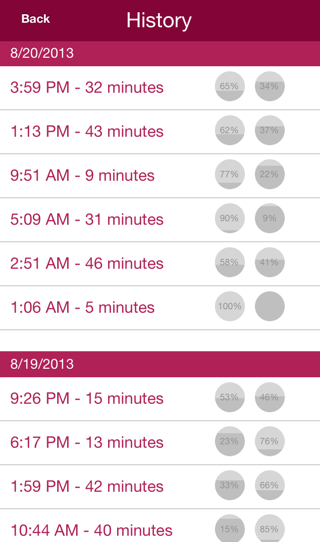
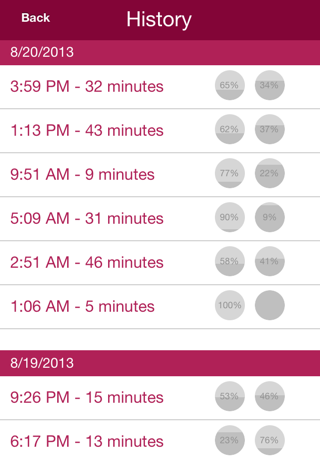
Paid/Free version finished

diff --git a/src/FeedMeMom.UI/MainController.cs b/src/FeedMeMom.UI/MainController.cs
@@ -283,28 +283,53 @@ namespace FeedMeMom
 
 		private void CreateSideMenu()
 		{
-			var repo = ServiceLocator.Get<Repository> ();
-
 			_sideMenu = new SideMenu();
 			_sideMenuHub = SideMenuHub.CreateAndHookup(View, _sideMenu.View);
 
 
-			_sideMenu.Items.Add(new ActionItem(Resources.History, () => {
-				if (_historyController == null) 
-				{
-					_historyController = new HistoryController();
-				}
-				_historyController.ReloadData();
-				_sideMenuHub.Hide();
-				NavigationController.PushViewController(_historyController, false);
+			if (Configuration.IsFreeApp)
+			{
+				_sideMenu.Items.Add(new ActionItem(Resources.History, () => {
+					if (_buyController == null) {
+						_buyController = new BuyController();
+					}
+					_sideMenuHub.Hide();
+					_buyController.BuyTitle = Resources.History;
+					_buyController.BuyDescription = Resources.HistoryBuyHeadline;
+					_buyController.ScreenImageName = "buy_history";
+					NavigationController.PushViewController(_buyController, false);
+				}, UIImage.FromBundle("list")));
 
-			}, UIImage.FromBundle("list")));
+				_sideMenu.Items.Add(new ActionItem(Resources.SwitchDayNightMode, () => {
+					if (_buyController == null) {
+						_buyController = new BuyController();
+					}
+					_sideMenuHub.Hide();
+					_buyController.BuyTitle = Resources.SwitchDayNightMode;
+					_buyController.BuyDescription = Resources.NightModeBuyHeadline;
+					_buyController.ScreenImageName = "buy_nightmode";
+					NavigationController.PushViewController(_buyController, false);
+				}, UIImage.FromBundle("moon")));
+			} 
+			else
+			{
+			
+				_sideMenu.Items.Add(new ActionItem(Resources.History, () => {
+					if (_historyController == null)
+					{
+						_historyController = new HistoryController();
+					}
+					_historyController.ReloadData();
+					_sideMenuHub.Hide();
+					NavigationController.PushViewController(_historyController, false);
 
-			_sideMenu.Items.Add(new ActionItem(Resources.SwitchDayNightMode, () => {
-				Skin.ToggleDayNightMode();
-				_sideMenuHub.Hide();
-			}, UIImage.FromBundle("moon")));
+				}, UIImage.FromBundle("list")));
 
+				_sideMenu.Items.Add(new ActionItem(Resources.SwitchDayNightMode, () => {
+					Skin.ToggleDayNightMode();
+					_sideMenuHub.Hide();
+				}, UIImage.FromBundle("moon")));
+			}
 			_sideMenu.Items.Add(new ActionItem(Resources.IlikeThisApp, () => {
 				_sideMenuHub.Hide();
 				NavigationController.PushViewController(new ReviewController(), false);
@@ -315,23 +340,20 @@ namespace FeedMeMom
 				NavigationController.PushViewController(new FeedbackController(), false);
 			}, UIImage.FromBundle("envelope")));
 
-//			_sideMenu.Items.Add(new ActionItem("Buy Test", () => {
-//				if (_buyController == null) {
-//					_buyController = new BuyController();
-//				}
-//				_sideMenuHub.Hide();
-//				_buyController.BuyTitle = Resources.History;
-//				_buyController.BuyDescription = Resources.HistoryBuyHeadline;
-//				NavigationController.PushViewController(_buyController, false);
-//			}));
-//
-//			_sideMenu.Items.Add(new ActionItem("Delete Data", () => {
-//				var feedings = repo.Table<FeedingEntry>();
-//				foreach (var item in feedings) {
-//					repo.Delete(item);
-//					ReloadData();
-//				}
-//			}));		
+			if (Configuration.IsTest)
+			{
+				var repo = ServiceLocator.Get<Repository> ();
+				_sideMenu.Items.Add(new ActionItem("Generate Data", () => {
+					repo.GenerateFeedings();
+				}));		
+				_sideMenu.Items.Add(new ActionItem("Delete Data", () => {
+					var feedings = repo.Table<FeedingEntry>();
+					foreach (var item in feedings) {
+						repo.Delete(item);
+						ReloadData();
+					}
+				}));		
+			}
 		}
 
 		private void UpdateView(FeedingEntry entry)

diff --git a/src/FeedMeMom.UI/Controllers/BuyController.cs b/src/FeedMeMom.UI/Controllers/BuyController.cs
@@ -12,12 +12,15 @@ namespace FeedMeMom.Controllers
 	{
 		public BuyController() : base ("BuyController", null)
 		{
+
 		}
 
 		public void Close(object sender, EventArgs e)
 		{
 			NavigationController.PopViewControllerAnimated(true);
 		}
+
+		public string ScreenImageName { get; set; }
 
 		public override void ViewDidLoad()
 		{
@@ -50,11 +53,11 @@ namespace FeedMeMom.Controllers
 
 			if (ControlHelper.IsIPhone5)
 			{
-				imgScreen.Image = UIImage.FromBundle("buy_history_iphone5");
+				imgScreen.Image = UIImage.FromBundle(ScreenImageName + "_iphone5");
 			} 
 			else
 			{
-				imgScreen.Image = UIImage.FromBundle("buy_history");
+				imgScreen.Image = UIImage.FromBundle(ScreenImageName);
 			}
 
 			if (_topImage == null)

diff --git a/src/FeedMeMom.UI/Services/Configuration.cs b/src/FeedMeMom.UI/Services/Configuration.cs
@@ -8,13 +8,19 @@ namespace FeedMeMom
 		{
 			//AppStoreUrl = System.Configuration.ConfigurationManager
 			AppStoreUrl = "http://itunes.apple.com/us/app/feedmemom/id692782735?mt=8";
-			FeedbackEmail = "support@feedmemom.com";
-			AppId = 692782735;
+			FeedbackEmail = "freesupport@feedmemom.com";
+			AppId = 0;
+			IsFreeApp = true;
+#if (DEBUG)
+			IsTest = true;
+#endif
 		}
 
 		public static string AppStoreUrl { get; set; }
 		public static string FeedbackEmail { get; set; }
 		public static int AppId { get; set; }
+		public static bool IsFreeApp { get; set; }
+		public static bool IsTest { get; set; }
 		
 	}
 }

diff --git a/src/FeedMeMom.Common/Services/Repository.cs b/src/FeedMeMom.Common/Services/Repository.cs
@@ -14,16 +14,9 @@ namespace FeedMeMom.Common
 
 			//CreateCommand("DROP TABLE " + Table<FeedingEntry>().Table.TableName).ExecuteNonQuery();
 			CreateTable<FeedingEntry> ();
-//			Insert(new FeedingEntry
-//				{ 
-//					Date = DateTime.Now.AddHours(-2.43),
-//					LeftBreastLengthSeconds = 23*60,
-//					RightBreastLengthSeconds = 6*60,					
-//				});
-			//GenerateFeedings();
 		}
 
-		private void GenerateFeedings()
+		public void GenerateFeedings()
 		{
 			var feedings = Table<FeedingEntry>();
 			foreach (var item in feedings)

diff --git a/src/FeedMeMom.UI/Resources.cs b/src/FeedMeMom.UI/Resources.cs
@@ -64,6 +64,7 @@ namespace FeedMeMom {
 			HoursAgo = GetLocalized("HoursAgo");
 			DayAgo = GetLocalized("DayAgo");
 			DaysAgo = GetLocalized("DaysAgo");
+			NightModeBuyHeadline = GetLocalized("NightModeBuyHeadline");
 	
 		}
 		
@@ -104,6 +105,7 @@ namespace FeedMeMom {
 		public static string HoursAgo { get; private set; }
 		public static string DayAgo { get; private set; }
 		public static string DaysAgo { get; private set; }
+		public static string NightModeBuyHeadline { get; private set; }
 	
 
 	}

diff --git a/src/FeedMeMom.App.Full/Main.cs b/src/FeedMeMom.App.Full/Main.cs
@@ -11,6 +11,10 @@ namespace FeedMeMom
 		// This is the main entry point of the application.
 		static void Main (string[] args)
 		{
+			Configuration.IsFreeApp = false;
+			Configuration.FeedbackEmail = "appsupport@feedmemom.com";
+			Configuration.AppId = 692782735;
+
 			// if you want to use a different Application Delegate class from "AppDelegate"
 			// you can specify it here.
 			UIApplication.Main (args, null, "AppDelegate");
